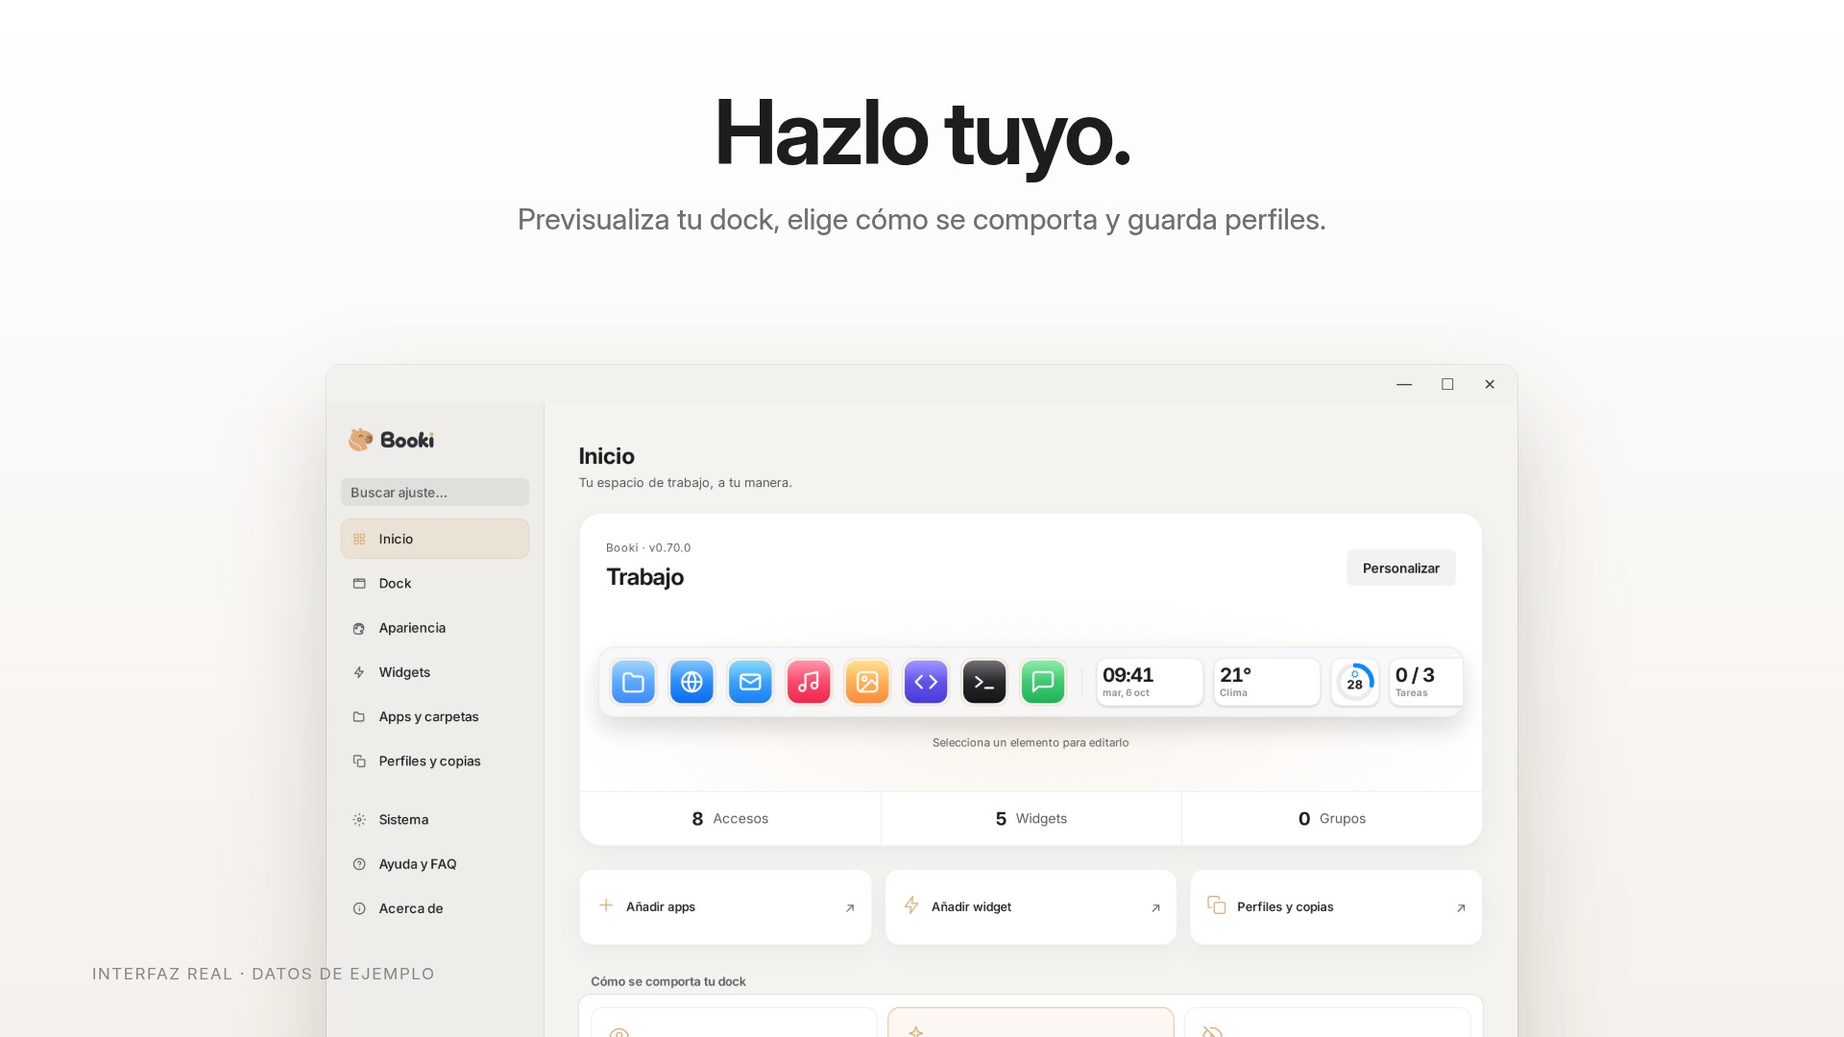
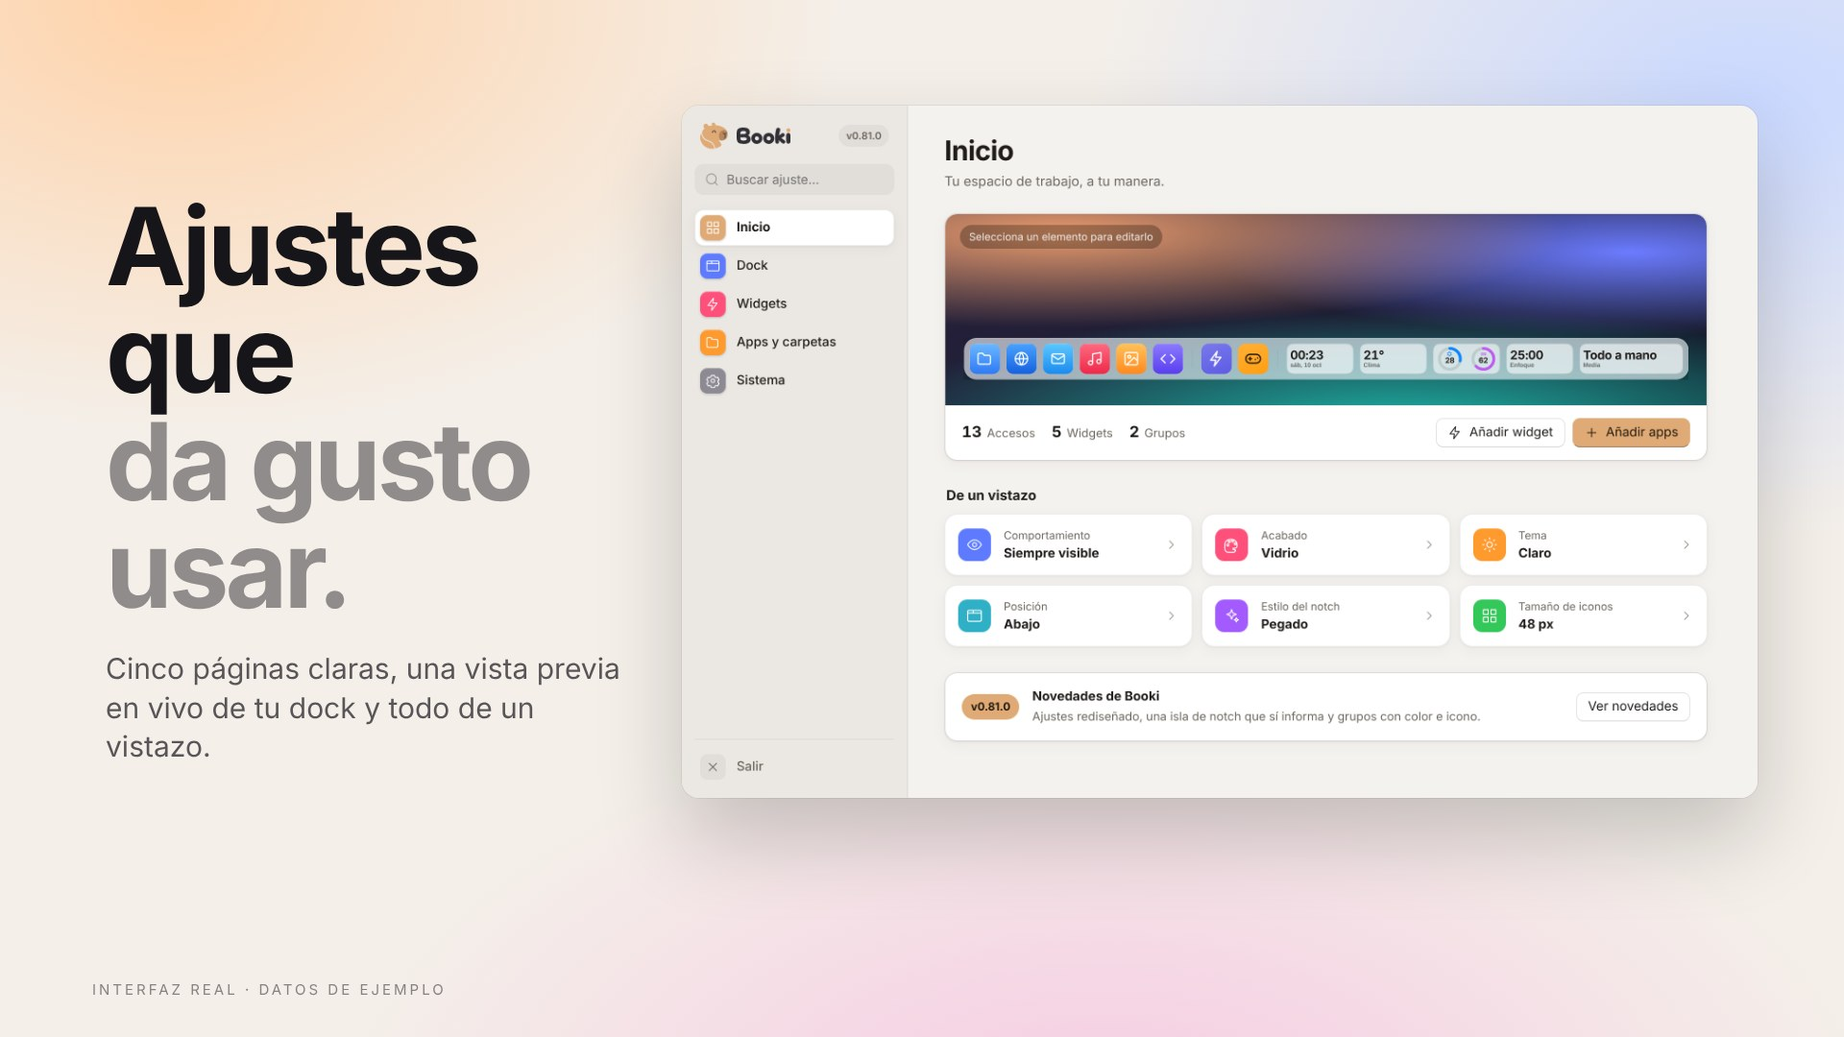
Refresh the README presentation for 0.81
New presentation images rendered from the real 0.81 interface (dock,
notch Island, group colour and icon, widgets, Settings, dark mode) in
English and Spanish, and a rewritten introduction in both READMEs.

Claude-Session: https://claude.ai/code/session_011R3DPNQ4M1EeqUrXke8a7s

diff --git a/README.md b/README.md
@@ -1,70 +1,76 @@
 <p align="center">
-  <img src="assets/brand/svg/isotype.svg" alt="Booki capybara" height="72" />
+  <img src="assets/brand/svg/isotype.svg" alt="Booki capybara" height="84" />
 </p>
 
 <h1 align="center">Booki</h1>
 
-<h3 align="center">A calmer way to use Windows.</h3>
+<h3 align="center">Your desktop, calmer.</h3>
+
+<p align="center">A beautiful dock for Windows 11 — apps, folders and live widgets in one calm bar.<br/>Free, private and open source.</p>
 
 <p align="center">
-  <a href="https://github.com/punkable/booki/releases/latest"><b>Download</b></a> ·
-  <a href="docs/presentation/booki-070-en.mp4"><b>Watch the film</b></a> ·
+  <a href="https://github.com/punkable/booki/releases/latest"><b>Download for Windows</b></a> ·
+  <a href="docs/releases/v0.81.0.md"><b>What's new in 0.81</b></a> ·
   <a href="README.es.md">Español</a>
 </p>
 
 <p align="center">
-  <a href="https://github.com/punkable/booki/releases/latest"><img src="https://img.shields.io/github/v/release/punkable/booki?label=available&style=flat-square" alt="Available release" /></a>
+  <a href="https://github.com/punkable/booki/releases/latest"><img src="https://img.shields.io/github/v/release/punkable/booki?label=latest&style=flat-square&color=dfaa75" alt="Latest release" /></a>
   <img src="https://img.shields.io/badge/Windows-10%20%2F%2011-0078d4?style=flat-square" alt="Windows 10 and 11" />
+  <img src="https://img.shields.io/badge/built%20with-Tauri%202%20%2B%20React-24c8db?style=flat-square" alt="Built with Tauri 2 and React" />
   <a href="LICENSE"><img src="https://img.shields.io/badge/license-MIT-lightgrey?style=flat-square" alt="MIT license" /></a>
 </p>
 
-<p align="center">
-  <a href="docs/presentation/booki-070-en.mp4"><img src="docs/presentation/hero-en.jpg" width="1000" alt="Booki dock on a soft desktop: apps, clock, weather, CPU, tasks and now playing" /></a>
-</p>
+<p align="center"><img src="docs/presentation/hero-en.jpg" width="1000" alt="Booki dock on a soft desktop with apps, two colored groups, clock, weather, system, focus timer and music, and the notch Island showing the timer" /></p>
+
+<table align="center">
+<tr>
+<td align="center" width="25%"><b>⚡ Light</b><br/><sub>Native Rust core. Widgets pause when the dock hides.</sub></td>
+<td align="center" width="25%"><b>🔒 Private</b><br/><sub>No accounts, no telemetry, no cloud.</sub></td>
+<td align="center" width="25%"><b>🎨 Yours</b><br/><sub>Glass, Mica or solid. Any edge. Five languages.</sub></td>
+<td align="center" width="25%"><b>🧡 Open</b><br/><sub>MIT licensed. Built in the open.</sub></td>
+</tr>
+</table>
 
 ---
 
-<h2 align="center">Everything you use. One beautiful dock.</h2>
+<h2 align="center">The notch that tells you things.</h2>
 
-<p align="center">Pin apps, folders, files and websites. Click to launch, or jump back to a window that's already open.<br/>Clicks outside the bar go straight through to whatever is behind it.</p>
+<p align="center">A quiet dot at the top of your screen that opens into a capsule for your focus timer, the song that's playing or a low battery.<br/>Hover it for a card with more. Prefer something simpler? Choose an attached tab or a floating pill.</p>
 
-<p align="center"><img src="docs/presentation/widgets-en.jpg" width="1000" alt="Close-up of Booki's live widgets: clock, weather, CPU and tasks" /></p>
+<p align="center"><img src="docs/presentation/island-en.jpg" width="1000" alt="The notch Island showing a running focus timer above a dark Booki dock" /></p>
+
+<h2 align="center">Groups that look like yours.</h2>
+
+<p align="center">Pin apps, folders, files and websites, then gather them into groups.<br/>Give each group a colour from a curated palette and an icon from the library — it shows in the dock and in Settings.</p>
+
+<p align="center"><img src="docs/presentation/groups-en.jpg" width="1000" alt="Booki Settings, Apps and folders: the dock as a tidy grid, a library with large icons and a group inspector with colour and icon pickers" /></p>
 
 <h2 align="center">Live, at a glance.</h2>
 
-<p align="center">Time, weather, CPU, memory, network, battery, notes, clipboard and now playing — compact tiles that sit right on the bar and pause when the dock is hidden.</p>
+<p align="center">Clock, calendar, weather, system (CPU, memory, disk, network), battery, media, volume, notes, clipboard and focus (timer + tasks).<br/>Compact tiles that sit right on the bar.</p>
 
-<p align="center"><img src="docs/presentation/focus-en.jpg" width="1000" alt="Booki timer, tasks, calendar and weather widgets with the tasks list open" /></p>
+<p align="center"><img src="docs/presentation/widgets-en.jpg" width="1000" alt="Booki widget gallery with live previews" /></p>
 
-<h2 align="center">A little more focus.</h2>
+<h2 align="center">Settings you actually enjoy.</h2>
 
-<p align="center">A countdown timer, a task list, a monthly calendar and optional city weather.<br/>Your tasks stay on your PC. Weather asks only for the city you choose — never your location.</p>
+<p align="center">Five clear pages — Home, Dock, Widgets, Apps and System — with a live preview of your dock and everything at a glance.</p>
 
-<p align="center"><img src="docs/presentation/library-workspace-en.png" width="1000" alt="Booki library with a persistent dock editor, app suggestions and an item inspector" /></p>
+<p align="center"><img src="docs/presentation/settings-en.jpg" width="1000" alt="Booki Settings home with the dock on a small desktop and at-a-glance tiles" /></p>
 
-<h2 align="center">Find any app. Fast.</h2>
+<h2 align="center">At home in the dark.</h2>
 
-<p align="center">Search everything installed, see what's open, and get suggestions from your own usage.<br/>Keep your dock in view while you search. Select an app to inspect it, then add it with + or drag it into a position or group.<br/>Usage is read locally from Windows and from launches through Booki. Nothing is uploaded.</p>
+<p align="center">Follows your Windows theme and accent. Glass blurs what's behind it, Mica tints with your wallpaper, Solid stays crisp.<br/>When a game or video goes fullscreen, Booki steps aside.</p>
 
-<p align="center"><img src="docs/presentation/settings-en.jpg" width="1000" alt="Booki Settings home with a live dock preview and behavior scenarios" /></p>
-
-<h2 align="center">Make it yours.</h2>
-
-<p align="center">A live preview of your dock, three behaviors to choose from — always visible, smart, or reveal at the edge — named profiles, any screen edge, glass or solid surfaces, and five languages.</p>
-
-<p align="center"><img src="docs/presentation/dark-en.jpg" width="1000" alt="Booki in dark mode on a dark desktop" /></p>
-
-<h2 align="center">Light or dark. At home in either.</h2>
-
-<p align="center">Follows your Windows theme and wallpaper accent, with optional native desktop blur behind the bar. When a game or video goes fullscreen, Booki steps aside.</p>
+<p align="center"><img src="docs/presentation/dark-en.jpg" width="1000" alt="Booki Dock settings in dark mode" /></p>
 
 ---
 
 <h2 align="center">Private by design.</h2>
 
-<p align="center">No accounts. No telemetry. No cloud sync. Open source under MIT.</p>
+<p align="center">No accounts. No telemetry. No cloud sync. Your tasks, notes and usage stay on your PC.<br/>Weather asks only for the city you choose — never your location.</p>
 
-<p align="center"><sub>Images and film show the actual Booki interface with example data and generic sample app icons. The presentation shows the 0.70 overhaul. The library screenshot shows the 0.71 workspace. See the <a href="docs/releases/v0.71.0.md">0.71 library, settings and system update</a>.</sub></p>
+<p align="center"><sub>Images show the actual Booki 0.81 interface with example data and generic sample icons.</sub></p>
 
 ## Get started
 
@@ -74,34 +80,14 @@
 
 Booki needs Windows 10 or 11. The installer isn't Authenticode-signed yet, so SmartScreen may warn you. Updates are signature-checked and keep your settings. The new background updater applies to the registered per-user setup installation; MSI/portable copies should use the same installer type from Releases.
 
-> Download the latest published version using the release badge above. Booki checks the same release channel for updates; updates preserve the existing installation and configuration.
+### New in 0.81
 
-### New in 0.72
+- **Settings, redesigned** — Home shows your dock on a small desktop with an at-a-glance summary; every page has clearer hierarchy and a live preview.
+- **Apps & folders, rebuilt** — edit your dock in a tidy grid; browse apps, folders and websites in tabs with large icons.
+- **Group colour and icon** — a curated palette and the icon library, in compact pickers.
+- **Notch Island** — a dot that becomes a capsule for your timer, music or low battery.
 
-- Clearer library actions and a dock editor that reserves space instead of covering apps.
-- Stronger keyboard focus, responsive details and Escape navigation.
-- Complete folder search and sorting, recoverable profiles and explicit retry states.
-- Encrypted note recovery with preview, Restore and Discard after interrupted saves.
-
-See the [complete 0.72 release notes](docs/releases/v0.72.0.md).
-
-### Previous 0.71 improvements
-
-- A persistent dock editor beside the app library: select to inspect, use **+** or drag to add, arrange groups and undo edits.
-- Unified dock behavior settings, curated finishes and a widget gallery with a configuration inspector.
-- Booki context menus with Settings throughout, optional movable Settings pins and internal subfolder navigation.
-- Complete profiles, protected saves and conflict recovery; notes autosave retains failed drafts for retry.
-- Native Windows notifications for media, volume, running windows and app catalog changes, with blocking queries moved off the interface thread.
-
-See the [complete 0.71 release notes](docs/releases/v0.71.0.md).
-
-### Previous 0.70 improvements
-
-- New Home dashboard in Settings, a visual widget gallery, adjustable widget widths and reduced transparency.
-- Four new widgets: timer, tasks, calendar and optional city weather (Open-Meteo).
-- A redesigned app library with search, running apps and local usage suggestions.
-- Fixes from [#64](https://github.com/punkable/booki/issues/64): pinning keeps your original shortcuts, dragging out can return a shortcut to the desktop, folders show every entry, smart hide responds to Show Desktop, and changing language refreshes widgets and menus.
-- Safer configuration writes, a privacy-respecting diagnostics export, steadier updates and a fully translated installer.
+See the [complete 0.81 release notes](docs/releases/v0.81.0.md) and the [0.80 overhaul](docs/releases/v0.80.0.md).
 
 ## Everyday controls
 
@@ -109,10 +95,10 @@ See the [complete 0.71 release notes](docs/releases/v0.71.0.md).
 |---|---|
 | Click a pin | Launch it or focus its window |
 | Drag desktop → dock | Pin an app, folder, file or image; ordinary pinning preserves the original |
-| Drag a pin out | Unpin; 0.70 additionally offers an explicit desktop-return action for shortcuts |
+| Drag a pin out | Unpin, or return a shortcut to the desktop |
 | Right-click the dock | Add items, choose a profile or open Settings |
 | Middle-click a pin | Reveal its location in Explorer |
-| Double-click a widget | Open its configuration; utility widgets in 0.70 also open their own panel |
+| Double-click a widget | Open its configuration; utility widgets open their own panel |
 | `Alt` + `1…9` | Launch the corresponding pin; the modifier is configurable |
 | Push the cursor to the edge | Reveal a hidden dock when edge/hover behavior is enabled |
 | Wheel over Media, if enabled | Change system volume |
@@ -120,8 +106,8 @@ See the [complete 0.71 release notes](docs/releases/v0.71.0.md).
 ## Privacy and your data
 
 - No telemetry, accounts or cloud synchronization. Configuration lives at `%APPDATA%\Booki\config.json`, with a safety backup.
-- Network requests are limited to update checks/downloads and website favicons; 0.70 adds optional Open-Meteo weather after choosing a city, without device-location access.
-- 0.70 app recommendations read Windows' local usage record and local successful Booki launches (`app-usage.json`). Usage is not uploaded.
+- Network requests are limited to update checks/downloads and website favicons, plus optional Open-Meteo weather after choosing a city, without device-location access.
+- App recommendations read Windows' local usage record and local successful Booki launches (`app-usage.json`). Usage is not uploaded.
 - Clipboard history is local. Restart persistence is off by default; when enabled, it is protected for your Windows user and can expire.
 - Compatible captures hide the dock by default. Enable **Visible in captures** in Settings when recording it.
 - Uninstall preserves settings unless you select **Delete app data**. Normal uninstall removes the startup entry and Explorer shell actions.

diff --git a/README.es.md b/README.es.md
@@ -1,64 +1,76 @@
 <p align="center">
-  <img src="assets/brand/svg/isotype.svg" alt="Capibara de Booki" height="72" />
+  <img src="assets/brand/svg/isotype.svg" alt="Capibara de Booki" height="84" />
 </p>
 
 <h1 align="center">Booki</h1>
 
-<h3 align="center">Una forma más tranquila de usar Windows.</h3>
+<h3 align="center">Tu escritorio, más en calma.</h3>
+
+<p align="center">Un dock precioso para Windows 11: apps, carpetas y widgets en vivo en una sola barra tranquila.<br/>Gratis, privado y de código abierto.</p>
 
 <p align="center">
-  <a href="https://github.com/punkable/booki/releases/latest"><b>Descargar</b></a> ·
-  <a href="docs/presentation/booki-070-es.mp4"><b>Ver el video</b></a> ·
+  <a href="https://github.com/punkable/booki/releases/latest"><b>Descargar para Windows</b></a> ·
+  <a href="docs/releases/v0.81.0.md"><b>Novedades de 0.81</b></a> ·
   <a href="README.md">English</a>
 </p>
 
 <p align="center">
-  <a href="docs/presentation/booki-070-es.mp4"><img src="docs/presentation/hero-es.jpg" width="1000" alt="Dock de Booki en un escritorio suave: apps, reloj, clima, CPU, tareas y música" /></a>
+  <a href="https://github.com/punkable/booki/releases/latest"><img src="https://img.shields.io/github/v/release/punkable/booki?label=versi%C3%B3n&style=flat-square&color=dfaa75" alt="Última versión" /></a>
+  <img src="https://img.shields.io/badge/Windows-10%20%2F%2011-0078d4?style=flat-square" alt="Windows 10 y 11" />
+  <img src="https://img.shields.io/badge/hecho%20con-Tauri%202%20%2B%20React-24c8db?style=flat-square" alt="Hecho con Tauri 2 y React" />
+  <a href="LICENSE"><img src="https://img.shields.io/badge/licencia-MIT-lightgrey?style=flat-square" alt="Licencia MIT" /></a>
 </p>
+
+<p align="center"><img src="docs/presentation/hero-es.jpg" width="1000" alt="Dock de Booki en un escritorio suave con apps, dos grupos de color, reloj, clima, sistema, temporizador y música, y la Isla del notch con el temporizador" /></p>
+
+<table align="center">
+<tr>
+<td align="center" width="25%"><b>⚡ Ligero</b><br/><sub>Núcleo nativo en Rust. Los widgets se pausan cuando el dock se oculta.</sub></td>
+<td align="center" width="25%"><b>🔒 Privado</b><br/><sub>Sin cuentas, sin telemetría, sin nube.</sub></td>
+<td align="center" width="25%"><b>🎨 Tuyo</b><br/><sub>Vidrio, Mica o sólido. Cualquier borde. Cinco idiomas.</sub></td>
+<td align="center" width="25%"><b>🧡 Abierto</b><br/><sub>Licencia MIT. Hecho a la vista de todos.</sub></td>
+</tr>
+</table>
 
 ---
 
-<h2 align="center">Todo lo que usas. En un solo dock.</h2>
+<h2 align="center">El notch que te cuenta cosas.</h2>
 
-<p align="center">Ancla apps, carpetas, archivos y sitios web. Un clic para abrir o volver a una ventana que ya está abierta.<br/>Los clics fuera de la barra pasan directo a lo que hay detrás.</p>
+<p align="center">Un punto discreto arriba de la pantalla que se abre en cápsula con tu temporizador, la canción que suena o la batería baja.<br/>Pasa el ratón para ver una tarjeta con más. ¿Prefieres algo más simple? Elige pestaña pegada o píldora flotante.</p>
 
-<p align="center"><img src="docs/presentation/widgets-es.jpg" width="1000" alt="Primer plano de los widgets de Booki: reloj, clima, CPU y tareas" /></p>
+<p align="center"><img src="docs/presentation/island-es.jpg" width="1000" alt="La Isla del notch mostrando un temporizador sobre un dock oscuro de Booki" /></p>
 
-<h2 align="center">Todo, de un vistazo.</h2>
+<h2 align="center">Grupos con tu estilo.</h2>
 
-<p align="center">Hora, clima, CPU, memoria, red, batería, notas, portapapeles y música: mosaicos compactos en la barra que se pausan cuando el dock se oculta.</p>
+<p align="center">Ancla apps, carpetas, archivos y sitios web, y júntalos en grupos.<br/>Dale a cada grupo un color de una paleta cuidada y un icono de la librería: se ve en el dock y en Ajustes.</p>
 
-<p align="center"><img src="docs/presentation/focus-es.jpg" width="1000" alt="Widgets de temporizador, tareas, calendario y clima, con la lista de tareas abierta" /></p>
+<p align="center"><img src="docs/presentation/groups-es.jpg" width="1000" alt="Ajustes de Booki, Apps y carpetas: el dock como cuadrícula ordenada, biblioteca con iconos grandes e inspector de grupo con color e icono" /></p>
 
-<h2 align="center">Un poco más de enfoque.</h2>
+<h2 align="center">En vivo, de un vistazo.</h2>
 
-<p align="center">Temporizador, lista de tareas, calendario mensual y clima opcional por ciudad.<br/>Tus tareas se quedan en tu PC. El clima solo consulta la ciudad que eliges, nunca tu ubicación.</p>
+<p align="center">Reloj, calendario, clima, sistema (CPU, memoria, disco, red), batería, música, volumen, notas, portapapeles y enfoque (temporizador + tareas).<br/>Fichas compactas en la propia barra.</p>
 
-<p align="center"><img src="docs/presentation/apps-es.jpg" width="1000" alt="Biblioteca de apps con sugerencias, apps abiertas y todas las instaladas" /></p>
+<p align="center"><img src="docs/presentation/widgets-es.jpg" width="1000" alt="Galería de widgets de Booki con vistas previas en vivo" /></p>
 
-<h2 align="center">Encuentra cualquier app.</h2>
+<h2 align="center">Ajustes que da gusto usar.</h2>
 
-<p align="center">Busca entre todo lo instalado, mira lo que está abierto y recibe sugerencias según tu propio uso.<br/>El uso se lee localmente de Windows y de lo que abres con Booki. Nada se sube.</p>
+<p align="center">Cinco páginas claras —Inicio, Dock, Widgets, Apps y Sistema— con una vista previa en vivo de tu dock y todo de un vistazo.</p>
 
-<p align="center"><img src="docs/presentation/settings-es.jpg" width="1000" alt="Inicio de Ajustes con vista previa del dock y escenarios de comportamiento" /></p>
+<p align="center"><img src="docs/presentation/settings-es.jpg" width="1000" alt="Inicio de Ajustes con el dock sobre un escritorio y fichas de resumen" /></p>
 
-<h2 align="center">Hazlo tuyo.</h2>
+<h2 align="center">Como en casa a oscuras.</h2>
 
-<p align="center">Vista previa en vivo de tu dock, tres comportamientos (siempre visible, inteligente o revelar en el borde), perfiles, cualquier borde de la pantalla, vidrio o sólido y cinco idiomas.</p>
+<p align="center">Sigue el tema y el color de Windows. Vidrio desenfoca lo que hay detrás, Mica se tiñe con tu fondo y Sólido se mantiene nítido.<br/>Cuando un juego o vídeo pasa a pantalla completa, Booki se aparta.</p>
 
-<p align="center"><img src="docs/presentation/dark-es.jpg" width="1000" alt="Booki en modo oscuro" /></p>
-
-<h2 align="center">Claro u oscuro. Se ve bien en ambos.</h2>
-
-<p align="center">Sigue el tema y el color de acento de Windows, con acrílico real detrás de la barra. Cuando un juego o video pasa a pantalla completa, Booki se aparta.</p>
+<p align="center"><img src="docs/presentation/dark-es.jpg" width="1000" alt="Ajustes del dock de Booki en modo oscuro" /></p>
 
 ---
 
 <h2 align="center">Privado por diseño.</h2>
 
-<p align="center">Sin cuentas. Sin telemetría. Sin nube. Código abierto con licencia MIT.</p>
+<p align="center">Sin cuentas. Sin telemetría. Sin sincronización en la nube. Tus tareas, notas y uso se quedan en tu PC.<br/>El clima solo pide la ciudad que eliges, nunca tu ubicación.</p>
 
-<p align="center"><sub>Las imágenes y el video muestran la interfaz real de Booki con datos e iconos de ejemplo. La presentación muestra el rediseño de 0.70. Consulta las <a href="docs/releases/v0.70.2.md">correcciones de superficies y funcionamiento de 0.70.2</a>.</sub></p>
+<p align="center"><sub>Las imágenes muestran la interfaz real de Booki 0.81 con datos y app de ejemplo.</sub></p>
 
 ## Instalar y empezar
 
@@ -74,7 +86,7 @@ Requiere Windows 10 u 11. El instalador aún no tiene firma Authenticode, así q
 |---|---|
 | Clic en un acceso | Abrirlo o enfocar su ventana |
 | Arrastrar al dock | Anclarlo conservando el original |
-| Arrastrar fuera | Desanclar; 0.70 ofrece además devolver accesos directos al escritorio |
+| Arrastrar fuera | Desanclar, o devolver un acceso directo al escritorio |
 | Clic derecho | Añadir elementos, cambiar perfil o abrir Ajustes |
 | Clic central | Mostrar la ubicación en Explorer |
 | `Alt` + `1…9` | Abrir el acceso correspondiente; modificador configurable |
@@ -84,7 +96,7 @@ Requiere Windows 10 u 11. El instalador aún no tiene firma Authenticode, así q
 
 No hay cuentas, telemetría ni sincronización en la nube. La configuración y las recomendaciones de uso permanecen en tu equipo, en `%APPDATA%\Booki`. El portapapeles persistente está desactivado inicialmente y, al activarlo, se protege para tu usuario de Windows.
 
-Las consultas de red se usan para actualizaciones y favicons; 0.70 añade clima opcional mediante Open-Meteo al elegir una ciudad, sin pedir la ubicación del dispositivo. La desinstalación conserva los ajustes salvo que marques **Eliminar datos de la aplicación**.
+Las consultas de red se usan para actualizaciones y favicons, además del clima opcional mediante Open-Meteo al elegir una ciudad, sin pedir la ubicación del dispositivo. La desinstalación conserva los ajustes salvo que marques **Eliminar datos de la aplicación**.
 
 ## Desarrollo y soporte
 
